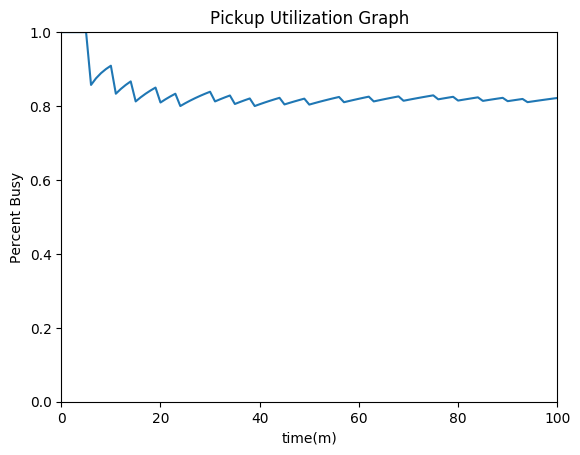
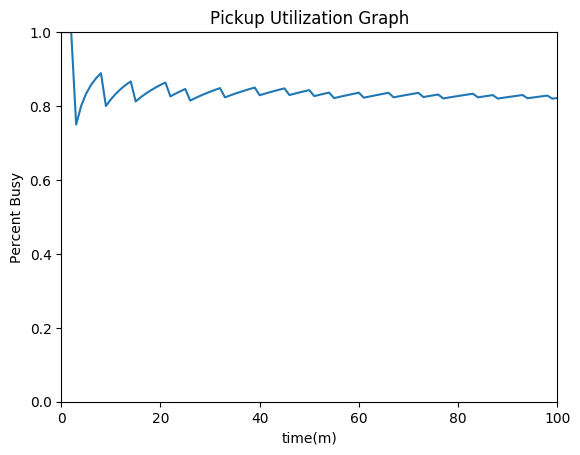
added moving functionality

Changed region(s): [[0.2483, 0.1846, 0.9621, 0.2462], [0.1241, 0.0615, 0.2172, 0.2769]]

diff --git a/Project/ProjectTwoIdea/src/Oiltruck.py b/Project/ProjectTwoIdea/src/Oiltruck.py
@@ -11,6 +11,7 @@ class Oiltruck(Vehicle.Vehicle):
 	def __init__(self, employeeMinTime, employeeMaxTime, name, stockpile):
 		super().__init__(employeeMinTime, employeeMaxTime, name)
 		self.stockpile = stockpile
+		self.totalGallonsSprayed = 0
 		self.oil = 2500 # Gallons, starts full.
 		self.states = {
 					
@@ -22,6 +23,9 @@ class Oiltruck(Vehicle.Vehicle):
 				
 				}
 
+		self.position = 0
+		self.vehicleSpeed = 30 # mph 
+		self.distanceRemaining = 0
 
 	def startWork(self, road):
 
@@ -36,30 +40,61 @@ class Oiltruck(Vehicle.Vehicle):
 			self.patchWorkTimes.append(self.currentWorkTime)
 			self.state = 1
 
+
+	def refillOil(self):
+
+		self.utilTime += 1
+		self.oil += 125
+		print(self.oil, 'the fuck is this')
+
+		if(self.oil == 2500):
+			self.changeState('Loaded')
+
+	def moveToPit(self):
+		self.distanceRemaining -= self.vehicleSpeed
+		if (self.distanceRemaining < 0):
+			self.changeState('Loading')
+			self.refillOil()
+
 	def spray(self):
+
 		self.currentWorkTime -= 1
 		self.utilTime += 1
-		self.oil -= 50
+		oilAmount = 10
+		self.oil -= oilAmount
+		self.totalGallonsSprayed += oilAmount
 
 		if (self.oil == 0): # 0, empty duh.
 			self.changeState('Mobing')
+			self.distanceRemaining = self.patch.start - self.position
+			self.moveToPit()
 
 		else:
-			self.patch.sprayPatch(50)
+			self.patch.sprayPatch(oilAmount)
+
 
 	def work(self):
 
 		if (self.currentWorkTime != 0):
 
-			if (self.state == self.states['Mobing']):
+			if (self.state == self.states['Loading']):
+				self.refillOil()
+
+			elif (self.state == self.states['Mobing'] and self.oil == 0):
+				self.moveToPit()
+				# Needs a call move function. 
+
+			elif (self.state == self.states['Mobing']):
 				self.changeState('Spraying')
 				self.spray()
 				# Needs a call move function. 
+
 			
 			elif(self.state == self.states['Spraying']):
 				self.spray()
 
-			elif(self.state == self.states['Spraying']):
+			elif(self.state == self.states['Loaded']):
+				self.changeState('Mobing')
 				self.currentWorkTime -= 1
 				self.utilTime += 1
 

diff --git a/Project/ProjectTwoIdea/src/Stockpile.py b/Project/ProjectTwoIdea/src/Stockpile.py
@@ -5,6 +5,9 @@ Class: Stockpile - Both Oil and D1
 '''
 
 import random as rand
+import matplotlib.pyplot as plt
+import plotly.plotly as py
+import plotly.graph_objs as go
 from collections import deque
 
 class Stockpile(object):
@@ -14,9 +17,9 @@ class Stockpile(object):
 		self.d1mat = d1mat
 		self.oilTanker = oil
 
-
 		self.location = location # location is an int along a straight road
 		self.queue = deque()
+
 
 
 	def addD1Mat(self, truck):
@@ -24,6 +27,7 @@ class Stockpile(object):
 
 	def addOil(self, tanker):
 		self.oilTanker += tanker.unload()
+
 
 
 	def loadDumpTruck(self, truck):
@@ -35,8 +39,45 @@ class Stockpile(object):
 		truck.load()
 
 
+
 	def startLoadingOil(self, truck):
 		self.queue.append(truck)
 
 	def startLoading(self, truck):
 		self.queue.append(truck)
+
+
+
+	def genD1matGraph(self):
+
+		plt.plot(self.utilGraphList)
+		plt.ylim([0,1])
+		plt.xlim([0,100])
+		plt.title('D1 Material Pit')
+		plt.xlabel("time(m)")
+		plt.ylabel("D1 Remaing (cubic yards)")
+		plt.savefig('../sims/' + str(simNumName) + '/graphs/resources/'  + 'd1mat' + ".png", bbox_inches='tight')
+		plt.clf()
+
+	def getOilmatGraph(self):
+
+		plt.plot(self.utilGraphList)
+		plt.ylim([0,1])
+		plt.xlim([0,100])
+		plt.title(self.name + ' Utilization Graph')
+		plt.xlabel("time(m)")
+		plt.ylabel("Oil Remaining (gallons)")
+		plt.savefig('../sims/' + str(simNumName) + '/graphs/resources/'  + 'oilmat' + ".png", bbox_inches='tight')
+		plt.clf()
+
+
+
+
+
+
+
+
+
+
+
+

diff --git a/Project/ProjectTwoIdea/src/Simulation.py b/Project/ProjectTwoIdea/src/Simulation.py
@@ -138,11 +138,13 @@ class Simulation(object):
 			self.vehicleStartWork()
 			self.checkWork()
 
-			print(self.road.patches[0].getState(), " patch 1")
-			print(self.road.patches[1].getState(), " patch 2")
-			print(self.road.patches[2].getState(), " patch 3")
-			print(self.road.patches[3].getState(), " patch 4")
-			print(self.road.patches[4].getState(), " patch 5")
+			print(self.road.getCompletedPatches() )
+			# print(self.simClock)
+			# print(self.road.patches[0].getState(), " patch 1")
+			# print(self.road.patches[1].getState(), " patch 2")
+			# print(self.road.patches[2].getState(), " patch 3")
+			# print(self.road.patches[3].getState(), " patch 4")
+			# print(self.road.patches[4].getState(), " patch 5")
 
 			# print(self.road.getCompletedPatches())
 
@@ -161,6 +163,7 @@ class Simulation(object):
 
 		print(self.simClock, "Total Time (minutes)")
 		self.genGraphs(simName)
+		print(self.numOilTrucks[0].totalGallonsSprayed, 'fuck you')
 
 
 

diff --git a/Project/ProjectTwoIdea/src/Patch.py b/Project/ProjectTwoIdea/src/Patch.py
@@ -14,7 +14,7 @@ class Patch(object):
 		self.end = start + length
 		self.area = self.width * self.length
 		self.state = 0
-		self.requiredOil = math.floor(0.15 * self.area)
+		self.requiredOil = math.floor(0.09 * self.area)
 		self.states = {
 					
 					0:'Damaged',
